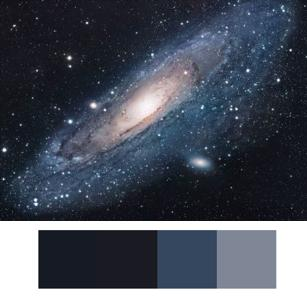
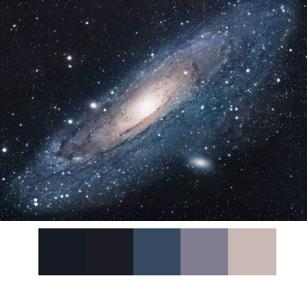
Better example in main() of colorpalette.py and out_universe.jpg

diff --git a/colorpalette.py b/colorpalette.py
@@ -102,7 +102,7 @@ def main():
     output_file = 'out_universe.jpg'
 
     print(color_palette_from_photo(input_file,
-                                   output_file, num_colors=4, partitions=100))
+                                   output_file, num_colors=5, partitions=200))
 
 
 if __name__ == '__main__':
